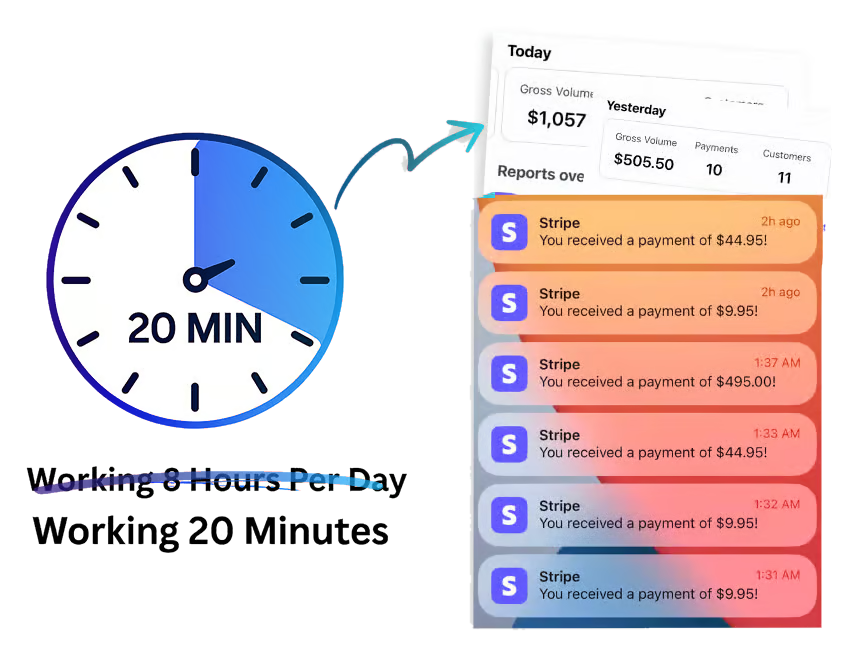
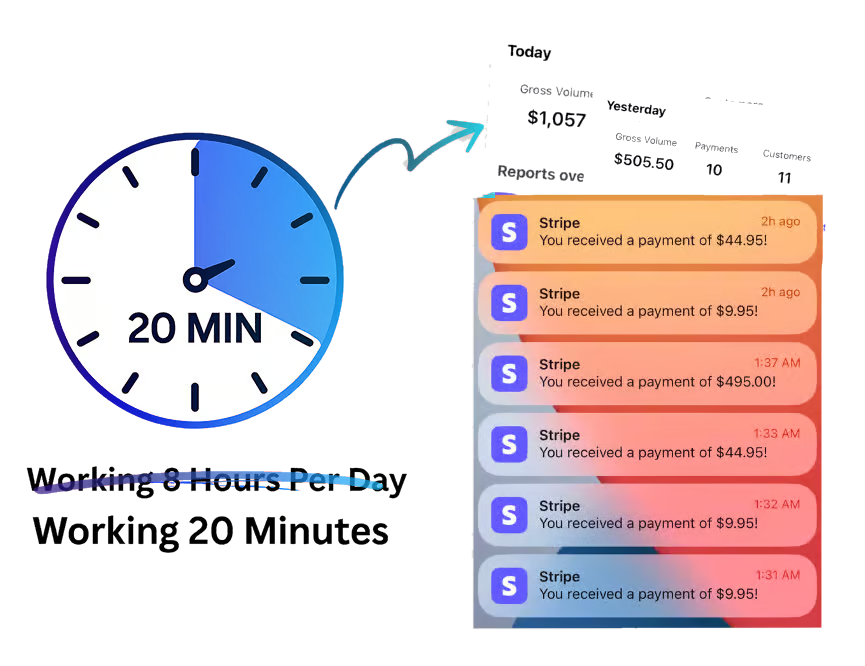
nova preview: remove white box behind dashboard cards too (float numbers)

diff --git a/ffc-email-assets/nova-preview.html b/ffc-email-assets/nova-preview.html
@@ -324,7 +324,7 @@
 <!-- EASY WAY -->
 <div class="nvsec band">
   <div class="wrap center">
-    <img class="lifeimg" src="https://facelessreelslab-assets.onrender.com/nova-clock-proof.png?v=3" alt="Work 20 minutes instead of 8 hours — Stripe payments rolling in" loading="lazy" style="margin-bottom:26px">
+    <img class="lifeimg" src="https://facelessreelslab-assets.onrender.com/nova-clock-proof.png?v=4" alt="Work 20 minutes instead of 8 hours — Stripe payments rolling in" loading="lazy" style="margin-bottom:26px">
     <h2 class="sec">This Is The Easy Way To Make Money In <span class="grad-txt">2026</span></h2>
     <p class="lead">The Nova Creator System is a shortcut. You post AI content built to go viral. You resell proven products. And you skip all the trial‑and‑error and go straight to making money. I call it <strong style="color:var(--txt)">"Consistent Profit With Confidence."</strong></p>
   </div>
